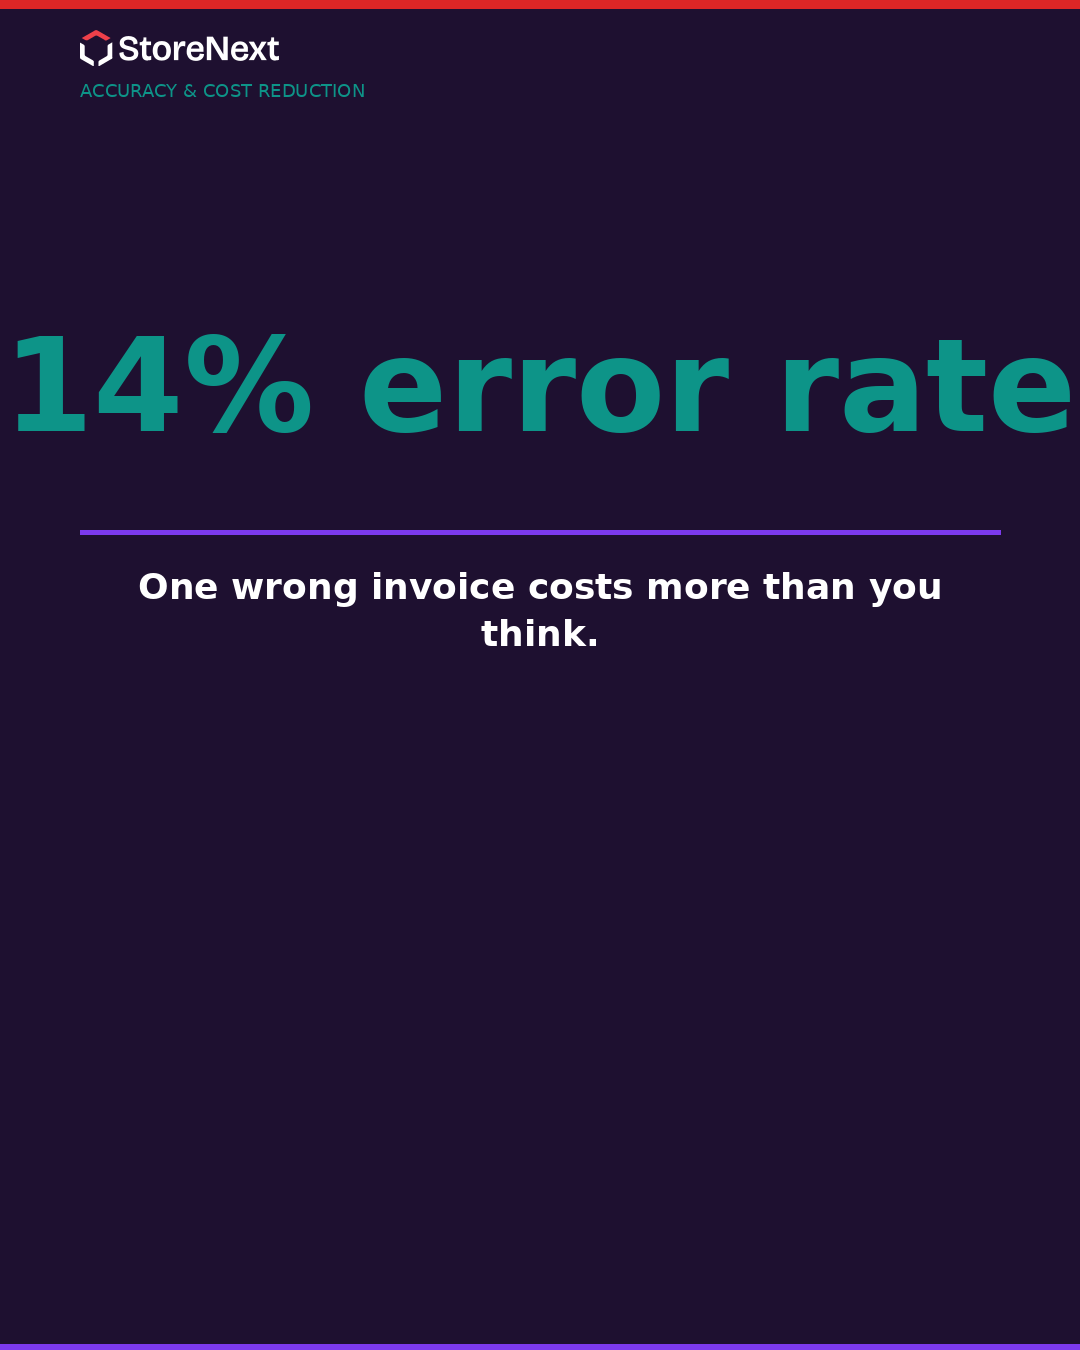
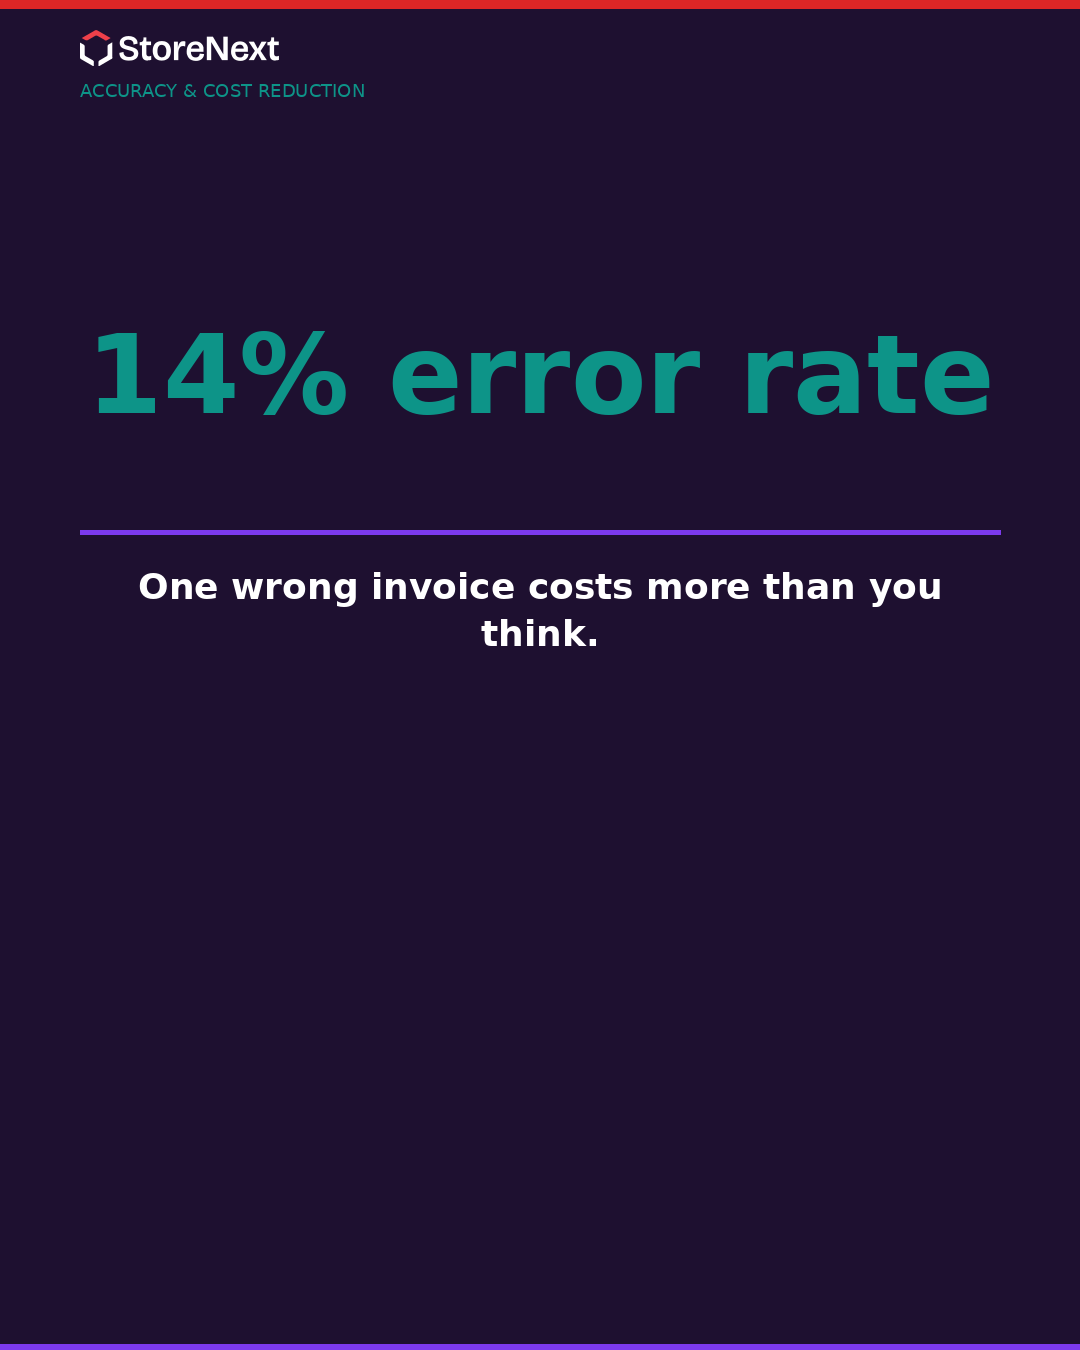
generate-visual: auto-scale metric font to fit within margins

Changed region(s): [[0.0917, 0.2489, 1.0, 0.3422], [0.0, 0.2489, 0.0917, 0.3422]]

diff --git a/T-tools/generate-visual.py b/T-tools/generate-visual.py
@@ -61,6 +61,18 @@ def load_font(size, bold=False):
                 continue
     return ImageFont.load_default()
 
+
+def fit_font(draw, text, max_width, max_size, bold=False, min_size=40):
+    """Reduce font size until text fits within max_width."""
+    size = max_size
+    while size >= min_size:
+        font = load_font(size, bold=bold)
+        bbox = draw.textbbox((0, 0), text, font=font)
+        if bbox[2] - bbox[0] <= max_width:
+            return font, size
+        size -= 4
+    return load_font(min_size, bold=bold), min_size
+
 def draw_text_centered(draw, text, y, font, color, width=W, max_width=None):
     max_width = max_width or (width - MARGIN * 2)
     words = text.split()
@@ -113,7 +125,7 @@ def stat_card(post):
 
     # Main metric — massive, teal
     metric = post.get("key_metric", "")
-    metric_font = load_font(130, bold=True)
+    metric_font, _ = fit_font(draw, metric, W - MARGIN * 2, 130, bold=True)
     bbox = draw.textbbox((0, 0), metric, font=metric_font)
     mx = (W - (bbox[2] - bbox[0])) // 2
     draw.text((mx, 310), metric, font=metric_font, fill=hex_to_rgb(TEAL))
